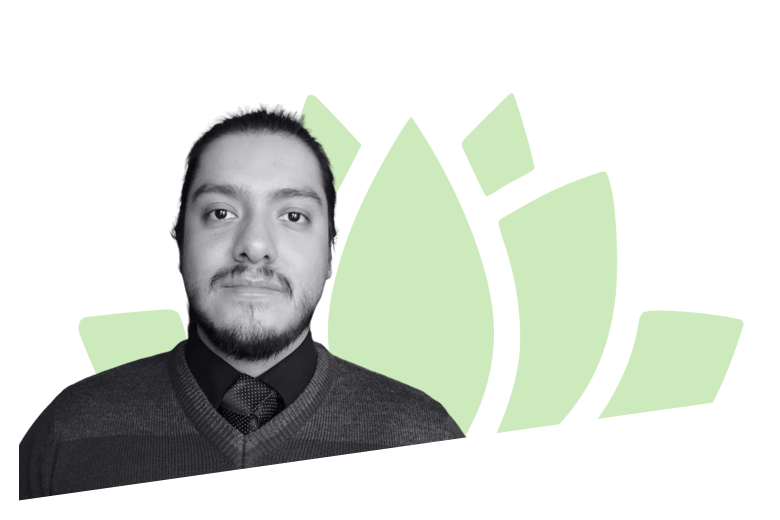
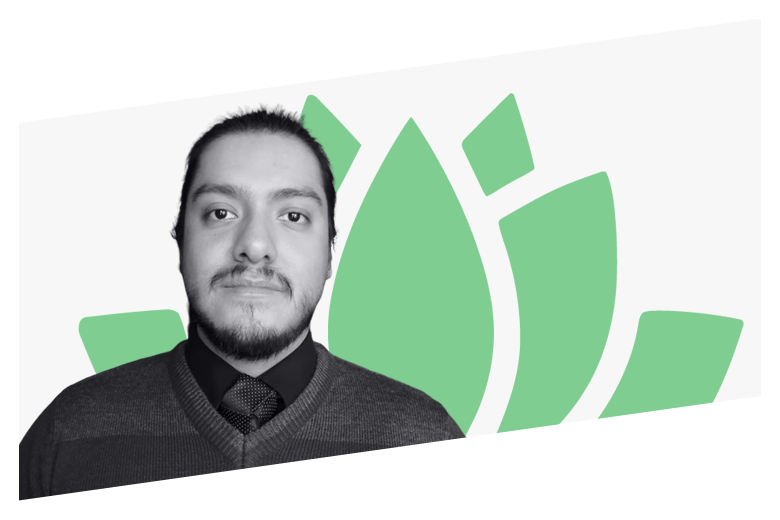
Se agrego alerta en calculadora y se modificaron las imagenes delos integrantes de equipo

Changed region(s): [[0.3692, 0.1846, 0.9538, 0.8308], [0.0923, 0.5846, 0.2462, 0.7385]]

diff --git a/assets/js/calculadora.js b/assets/js/calculadora.js
@@ -112,85 +112,129 @@ let peso = document.getElementById('peso').value;
 let altura = document.getElementById('altura').value;
 let genero = document.getElementById('genero').value;
 let nivelDeActividad = document.getElementById('nivelDeActividad').value;
-let intensidadAlEjercitar = parseInt(document.getElementById('intensidadAlEjercitar').value);
+let intensidadAlEjercitar = document.getElementById('intensidadAlEjercitar').value;
+//let intensidadAlEjercitar = parseInt(document.getElementById('intensidadAlEjercitar').value);
 let ejercitarDiasPorSemana  = document.getElementById('ejercitarDiasPorSemana').value;
 let ejercitarMinutosPorDia = document.getElementById('ejercitarMinutosPorDia').value;
+
+console.log("Intensidad " + intensidadAlEjercitar);
 
 
 
   if(edad == ""){
-    document.getElementById("messageErrorAge").innerHTML = `<div style="color: #FF6464;"><span class="icon-notification"></span> Introduce la edad</div>`;
+    document.getElementById("messageErrorAge").innerHTML = `<div style="color: #FF6464;"><span class="icon-notification"></span> Introduce la edad.</div>`;
    }else if(edad >= 20 && edad <=105 ){
     document.getElementById("messageErrorAge").innerHTML = "";
    }else{
-    document.getElementById("messageErrorAge").innerHTML = `<div style="color: #FF6464;"><span class="icon-notification"></span> Introduce una edad valida rango de 20 a 105 años.</div>`;
+    document.getElementById("messageErrorAge").innerHTML = `<div style="color: #FF6464;"><span class="icon-notification"></span> Introduce una edad válida rango de 20 a 105 años.</div>`;
+    document.getElementById("edad").value = "";
    } //else
    if(altura == ""){
-    document.getElementById("messageErrorheight").innerHTML = `<div style="color: #FF6464;"><span class="icon-notification"></span> Introduce la altura</div>`;
+    document.getElementById("messageErrorheight").innerHTML = `<div style="color: #FF6464;"><span class="icon-notification"></span> Introduce la altura.</div>`;
    }else if(altura >= 120 && altura <=230 ){
     document.getElementById("messageErrorheight").innerHTML = "";
    }else{
     document.getElementById("messageErrorheight").innerHTML = `<div style="color: #FF6464;"><span class="icon-notification"></span> Introduce una altura valida rango de 120 a 230 cm.</div>`;
+    document.getElementById("altura").value = "";
    } //else
    if(peso == ""){
-    document.getElementById("messageErrorweight").innerHTML = `<div style="color: #FF6464;"><span class="icon-notification"></span> Introduce el peso</div>`;
+    document.getElementById("messageErrorweight").innerHTML = `<div style="color: #FF6464;"><span class="icon-notification"></span> Introduce el peso.</div>`;
    }else if(peso >= 30 && peso <=250 ){
     document.getElementById("messageErrorweight").innerHTML = "";
    }else{
-    document.getElementById("messageErrorweight").innerHTML = `<div style="color: #FF6464;"><span class="icon-notification"></span> Introduce un peso valido rango de 30 a 250kg .</div>`;
+    document.getElementById("messageErrorweight").innerHTML = `<div style="color: #FF6464;"><span class="icon-notification"></span> Introduce un peso valido rango de 30 a 250kg.</div>`;
+    document.getElementById("peso").value = "";
    } //else
    if(ejercitarDiasPorSemana == ""){
-    document.getElementById("messageErrorDaysOfExercise").innerHTML = `<div style="color: #FF6464;"><span class="icon-notification"></span> Introduce dias de la semana</div>`;
+    document.getElementById("messageErrorDaysOfExercise").innerHTML = `<div style="color: #FF6464;"><span class="icon-notification"></span> Introduce días de la semana.</div>`;
    }else if(ejercitarDiasPorSemana >= 1 && ejercitarDiasPorSemana <=7 ){
     document.getElementById("messageErrorDaysOfExercise").innerHTML = "";
    }else{
-    document.getElementById("messageErrorDaysOfExercise").innerHTML = `<div style="color: #FF6464;"><span class="icon-notification"></span> Introduce un dia valido rango de dias de la semana del 1 al 7 .</div>`;
+    document.getElementById("messageErrorDaysOfExercise").innerHTML = `<div style="color: #FF6464;"><span class="icon-notification"></span> Introduce un dia valido rango de dias de la semana del 1 al 7.</div>`;
+    document.getElementById("ejercitarDiasPorSemana").value = "";
    } //else
    if(ejercitarMinutosPorDia == ""){
-    document.getElementById("messageErrorMinutesPerDay").innerHTML = `<div style="color: #FF6464;"><span class="icon-notification"></span> Introduce minutos de ejercicio por dia</div>`;
-   }else if(ejercitarMinutosPorDia >= 1 && ejercitarMinutosPorDia <=7 ){
+    document.getElementById("messageErrorMinutesPerDay").innerHTML = `<div style="color: #FF6464;"><span class="icon-notification"></span> Introduce minutos de ejercicio por día.</div>`;
+   }else if(ejercitarMinutosPorDia >= 1 && ejercitarMinutosPorDia <=180 ){
     document.getElementById("messageErrorMinutesPerDay").innerHTML = "";
    }else{
     document.getElementById("messageErrorMinutesPerDay").innerHTML = `<div style="color: #FF6464;"><span class="icon-notification"></span> Introduce un numero valido de minutos rango de 1 al 180.</div>`;
+    document.getElementById("ejercitarMinutosPorDia").value = "";
    } //else
 
+   
+   if(genero == "Género"){
+    document.getElementById("messageErrorGender").innerHTML = `<div style="color: #FF6464;"><span class="icon-notification"></span> Selecciona tu género.</div>`;
+   }else{
+    document.getElementById("messageErrorGender").innerHTML = "";
+   }//else
+
+   if(nivelDeActividad == "Actividad diaria"){
+    document.getElementById("messageErrorActivity").innerHTML = `<div style="color: #FF6464;"><span class="icon-notification"></span> Seleccione nivel de actividad.</div>`;
+   }else{
+    document.getElementById("messageErrorActivity").innerHTML = "";
+   }//else
+
+   if(intensidadAlEjercitar == "Intensidad de ejercicio"){
+    document.getElementById("messageErrorIntensity").innerHTML = `<div style="color: #FF6464;"><span class="icon-notification"></span> Seleccione nivel de intensidad.</div>`;
+   }else{
+    document.getElementById("messageErrorIntensity").innerHTML = "";
+   }//else
+
+
+    if (
+      edad.length > 0 &&
+      peso.length > 0 &&
+      altura.length > 0 &&
+      ejercitarDiasPorSemana.length > 0 &&
+      ejercitarMinutosPorDia.length > 0 &&
+      genero != "Género" &&
+      nivelDeActividad != "Actividad diaria" &&
+      intensidadAlEjercitar != "Intensidad de ejercicio"
+    ) {
+      var imc = peso / ((altura / 100) * (altura / 100));
+      if (imc < 18.5) {
+        document.getElementById("tituloDieta").innerHTML = `
+        <div class="text-center" data-aos="fade-up" data-aos-duration="2000">
+          <h2 class="jost">TE RECOMENDAMOS SEGUIR ESTE MENÚ</h2>
+        </div>`
+        console.log("IMC " + imc.toFixed(2));
+        window.addEventListener("load", milTrecientos());
+      } else if (imc >= 18.5 && imc < 25) {
+        document.getElementById("tituloDieta").innerHTML = `
+        <div class="text-center" data-aos="fade-up" data-aos-duration="2000">
+          <h2 class="jost">TE RECOMENDAMOS SEGUIR ESTE MENÚ</h2>
+        </div>`
+        window.addEventListener("load", milSeiscientos());
+      } else if (imc > 25) {
+        document.getElementById("tituloDieta").innerHTML = `
+        <div class="text-center" data-aos="fade-up" data-aos-duration="2000">
+          <h2 class="jost">TE RECOMENDAMOS SEGUIR ESTE MENÚ</h2>
+        </div>`
+        window.addEventListener("load", milNovecientos());
+      }
+
+      calcularPlanes(
+        genero, // [string] ('masculino', 'femenino')
+        edad, // [number]
+        altura, // [number] (en centimetros)
+        peso, // [number] (en kilos)
+        nivelDeActividad,
+        intensidadAlEjercitar,
+        ejercitarDiasPorSemana,
+        ejercitarMinutosPorDia
+      );
+    }else{
+      swal("Debe llenar todos los campos",{
+      icon: "error",
+      button: false,
+      timer: 1000,
+      });
+    }
 
 
 
-
-
-
-
-
-
-
-
-
-
-
-
-
-var imc = peso / ((altura / 100) * (altura / 100));
-if (imc < 18.5) {
-  console.log("IMC " + imc.toFixed(2));
-  window.addEventListener("load", milTrecientos());
-} else if (imc >= 18.5 && imc < 25) {
-  window.addEventListener("load", milSeiscientos());
-} else if (imc > 25) {
-  window.addEventListener("load", milNovecientos());
-}
-
-calcularPlanes(  genero,                 // [string] ('masculino', 'femenino')
- edad,                   // [number]
- altura,                 // [number] (en centimetros)
- peso,                   // [number] (en kilos)
- nivelDeActividad,
- intensidadAlEjercitar,
- ejercitarDiasPorSemana,
- ejercitarMinutosPorDia
- )
-
-}
+}//getFormValues
 
 
 //Funcion que contiene e imprime el json del plan 1300

diff --git a/services.html b/services.html
@@ -69,6 +69,7 @@
                             <option>Femenino</option>
                             <option>Masculino</option>
                         </select>
+                        <span id="messageErrorGender"></span> 
                     </div>
                     <div class="col-md-6 mt-3">
                         <input type="number" class="form-control jost rounded-0 input-style" id="edad" placeholder="Edad" min="20" max="105">
@@ -88,22 +89,24 @@
                 <div class="row mt">
                     <div class="col-md-6 mt-3">
                         <select id="nivelDeActividad" class="form-control form-style rounded-0 jost">
-                            <option disabled selected>Actividad diaria ℹ</option>
+                            <option disabled selected>Actividad diaria</option>
                             <option>Sedentario</option>
                             <option>Ligero</option>
                             <option>Activo</option>
                             <option>Muy activo</option>
                         </select>
+                        <span id="messageErrorActivity"></span> 
                     </div>
                     <div class="col-md-6 mt-3">
                         <select id="intensidadAlEjercitar" class="form-control form-style rounded-0 jost">
-                            <option disabled selected>Intensidad de ejercicio ℹ</option>
+                            <option disabled selected>Intensidad de ejercicio</option>
                             <option>Ninguna</option>
                             <option>Ligero</option>
                             <option>Moderado</option>
                             <option>Dificil</option>
                             <option>Intenso</option>
                         </select>
+                        <span id="messageErrorIntensity"></span> 
                     </div>
                 </div>
                 <div class="row mt">
@@ -130,7 +133,7 @@
                 <h1>Calculadora</h1>
                 <p style="font-size: 23px;">Llena los datos para calcular tus calorías ideales.</p>
                 <div class="d-flex flex-column" data-aos="fade-left" data-aos-duration="2000">
-     <p style="font-size: 20px;">
+                <p style="font-size: 20px;">
                         Tu IMC es igual a:
                         <span id="ResultIMC"></span>
                     </p>
@@ -155,26 +158,21 @@
 
         </div>
 
+        <br><br><br><br>
+
+        <!-- Cards Diestas -->
+        <span id="tituloDieta"></span>
+        <br>
+        <div class="row" id="dieta"></div>
+        <!-- Cards Dietas -->
+
     </div>
     <!-- /Contenido principal -->
 
-    <br><br><br><br><br><br><br><br><br><br><br>
-
-        <br><br><br>
-        
-
-      
-
-        
-    <div class="row" id="dieta"></div><br><br>
+    <br><br><br><br><br><br><br><br><br><br>
 
 
- 
     
-    </div>
-    <!-- /Contenido principal -->
-
-    <br><br><br><br><br>
 
     <!-- Footer -->
     <div id="footerSection"></div>
@@ -217,9 +215,14 @@
 
         <!-- Footer Script -->
             <script src="assets/js/footer.js"></script>
-            <!-- Footer Script -->
+        <!-- Footer Script -->
+        
+        <!-- SweetAlert -->
+        <script src=" https://unpkg.com/sweetalert/dist/sweetalert.min.js "> </script> 
+        <!-- SweetAlert -->
+
         <!--Carrito SesionStorage -->
-           <script src="/assets/js/sesionStorage.js"></script>
+            <script src="/assets/js/sesionStorage.js"></script>
         <!--Carrito SesionStorage -->
 
 

diff --git a/contact.html b/contact.html
@@ -155,9 +155,10 @@
         <!-- SweetAlert -->
         <script src=" https://unpkg.com/sweetalert/dist/sweetalert.min.js "> </script> 
         <!-- SweetAlert -->
-          <!--Carrito SesionStorage -->
-          <script src="/assets/js/sesionStorage.js"></script>
-          <!--Carrito SesionStorage -->
+
+        <!--Carrito SesionStorage -->
+            <script src="/assets/js/sesionStorage.js"></script>
+        <!--Carrito SesionStorage -->
     <!-- Scripts -->
 
     <!-- Option 1: Bootstrap Bundle with Popper -->
